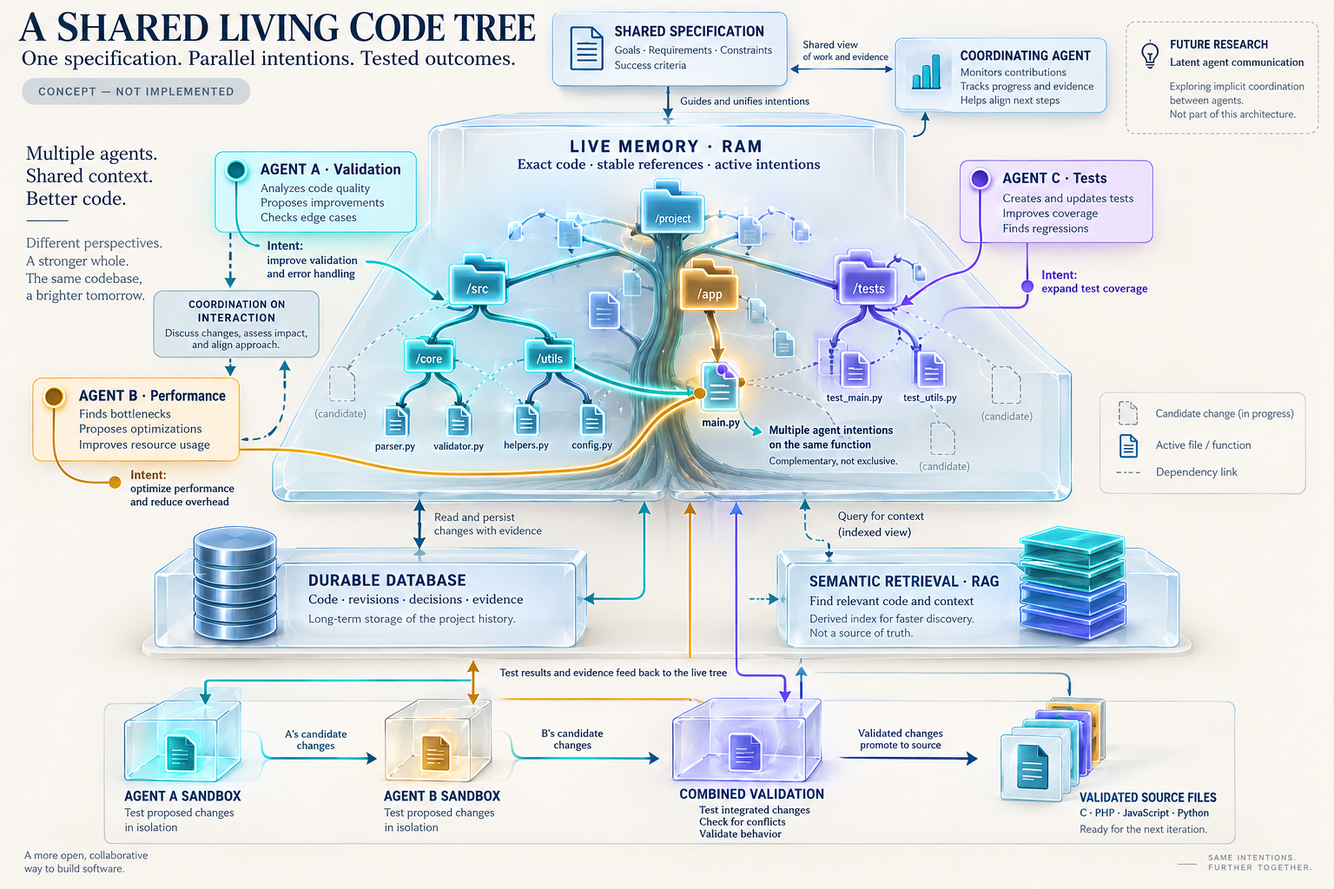
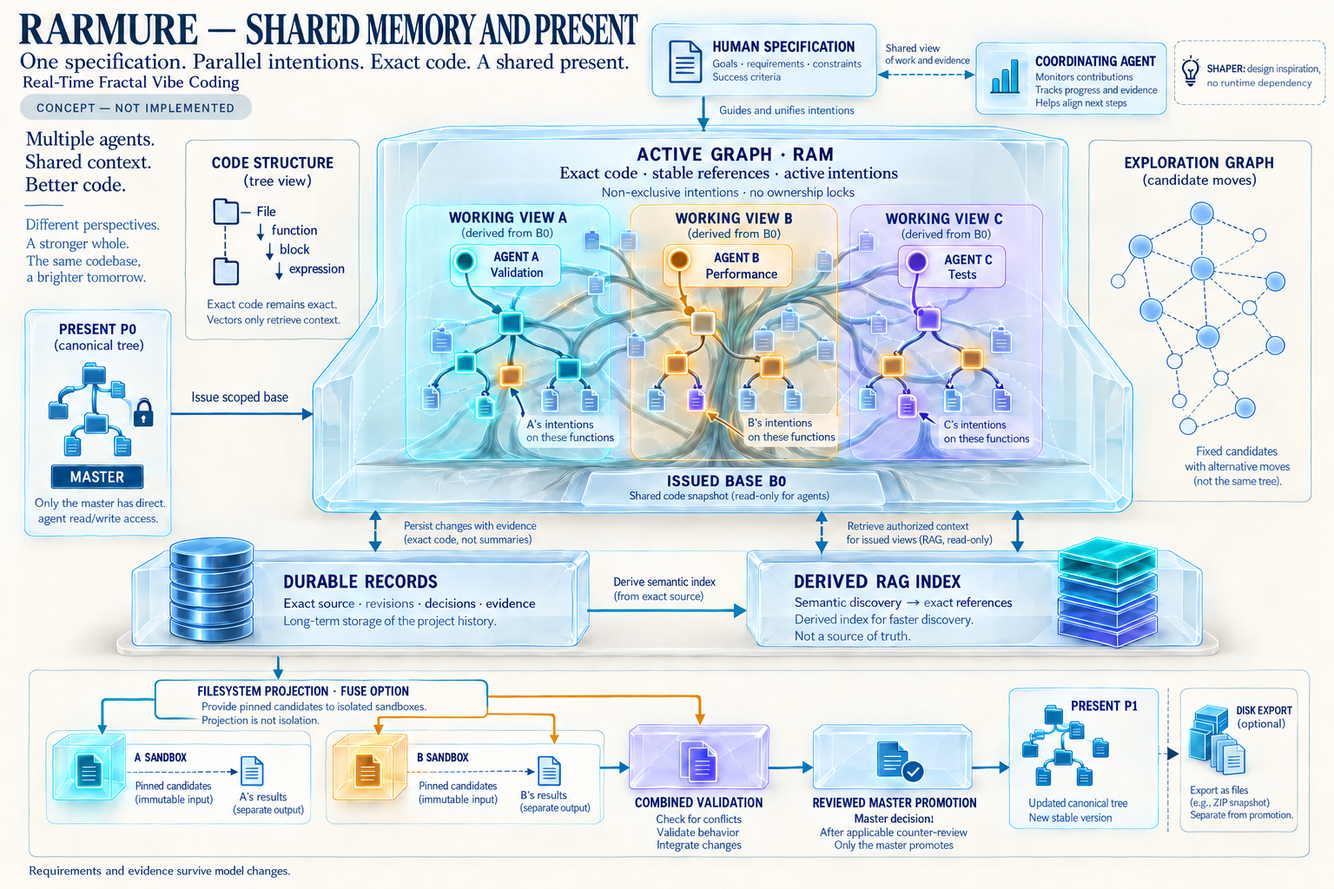
Refresh fractal vibe coding illustrations and clarify concurrency boundaries

diff --git a/visuals/GENERATION-PROMPTS.md b/visuals/GENERATION-PROMPTS.md
@@ -1,0 +1,75 @@
+# RARMURE Illustration Generation Prompts
+
+Date: 2026-10-07. Tool: built-in image generation. The original repository illustrations were edit references; each refreshed result received one targeted correction. These are design briefs, not implementation evidence. Image filenames and interpretation limits appear in [Visual notes](README.md).
+
+Each correction used its preceding generated image as the edit target. The final images are checked for readable core labels, separate working views, present authority, exact versus derived memory, parallel exploration, complementary review, and conceptual status. Prose contracts govern any simplified visual relationship.
+
+## Shared memory initial brief
+
+```text
+Use case: infographic-diagram. Asset: public RARMURE repository concept illustration 01, landscape, crisp high-resolution editorial infographic. Rebuild the attached earlier illustration completely while retaining its warm ivory background, navy type, translucent cyan architecture, organic living-tree motif, and amber/purple contribution colors. All visible text in English, large readable type, generous whitespace. Title exactly "RARMURE — SHARED MEMORY AND PRESENT". Badge "CONCEPT — NOT IMPLEMENTED".
+Show a human specification above an architecture of clearly separated surfaces. A compact navy protected canonical tree labeled "PRESENT P0" has a connection ONLY to "MASTER", with caption "Only the master has direct agent read/write access". A distinct large glass chamber "ACTIVE GRAPH · RAM" contains three separate virtual overlays labeled "WORKING VIEW A", "WORKING VIEW B", "WORKING VIEW C", all derived from "ISSUED BASE B0". Draw agents working only on their own overlays, with overlapping intention markers on matching function nodes; caption "Non-exclusive intentions · no ownership locks". Small inset tree "CODE STRUCTURE" lists "File → function → block → expression" and a separate inset "EXPLORATION GRAPH" shows fixed candidates connected by alternative moves, not the same tree. Exact code remains exact, vectors only retrieve context.
+Below RAM show "DURABLE RECORDS" with "Exact source · revisions · decisions · evidence"; show "DERIVED RAG INDEX" with "Semantic discovery → exact references". Persistence arrows link RAM and durable records, a one-way derived-index arrow goes from durable records to RAG, retrieval returns authorized context to issued views. Avoid indicating independently authoritative databases.
+Two parallel mini sandboxes receive "PINNED CANDIDATES" through "FILESYSTEM PROJECTION · FUSE OPTION". Their inputs are immutable, outputs separate; caption "Projection is not isolation". They feed "COMBINED VALIDATION" then "REVIEWED MASTER PROMOTION" then "PRESENT P1". Optional "DISK EXPORT" is separate from promotion.
+Small unobtrusive side note exactly "SHAPER: design inspiration, no runtime dependency". Footer exactly "Requirements and evidence survive model changes". Do not claim speedups, safety guarantees, universal AI language, or deployment. Preserve conceptual visual appeal but prioritize a clear correct graph, no direct worker-to-present arrow, no provider-to-accepted-output shortcut.
+```
+
+## Shared memory targeted correction
+
+```text
+Edit this RARMURE concept infographic surgically. Preserve the ivory/navy/cyan/amber/purple editorial style, all upper architecture, dimensions and readable typography, RAM views, separate code tree/exploration graph, durable/RAG responsibilities, SHAPER optionality and deferred implementation status. Correct bottom execution flow only:
+1. A SANDBOX and B SANDBOX are independent parallel tests of fixed candidates. REMOVE any arrow from A sandbox or A results to B sandbox. Their source inputs come from separate parallel arms from FILESYSTEM PROJECTION. A results and B results each have a separate clear arrow into COMBINED VALIDATION; no sandbox-to-sandbox chain.
+2. Under REVIEWED MASTER PROMOTION replace "Human review" with exactly "Master decision". Keep arrow from combined validation to this gate and from gate to PRESENT P1. Under gate use exactly "After applicable counter-review" and "Only the master promotes". Human acceptance is a separate authority when required, not the label for every promotion.
+3. Add compact small text immediately below title or its subtitle: "Real-Time Fractal Vibe Coding". Keep title RARMURE — SHARED MEMORY AND PRESENT and badge CONCEPT — NOT IMPLEMENTED.
+4. The PRESENT P0 box contains the master and access label. Its outgoing arrow to RAM should be one-way labeled "Issue scoped base", not a bidirectional direct agent link to the live present. Nothing else acquires present authority.
+No other changes. Exact English text, avoid duplicated labels, retain design clarity and no proof-of-implementation claims.
+```
+
+## Fractal exploration initial brief
+
+```text
+Use case: infographic-diagram. Asset: public RARMURE concept illustration 02, landscape editorial art. Completely redesign attached prior illustration in the same ivory/navy/translucent cyan/amber/violet organic living-tree style, readable English typography and generous whitespace.
+Title exactly "RARMURE — REAL-TIME FRACTAL VIBE CODING". Subtitle exactly "Parallel exploration · live coordination · evidence-based stabilization". Badge "CONCEPT — NOT IMPLEMENTED".
+Central panel "VIRTUAL EXPLORATION · RAM" is a growing organic exploration graph of several future moves, not code containment. "ISSUED BASE B0" forks into 3 paths with several fixed candidate checkpoints each, with smaller forks at subsystem and function scales and an explicit composition of two compatible contributions. Three workers use separate virtual overlays, even for the same logical function. Cyan amber violet paths, dashed unexplored paths and pale paused paths. A failing intermediate has a repair successor. Each candidate is fixed; edits create successors.
+Top protected small "PRESENT" tree connects ONLY with "MASTER · MICRO + MACRO"; master issues B0. Show "CODE TREE" as separate inset file/function/block containment, visibly different from possible futures. No worker direct arrow to present.
+Left circular cycle "INTENT → ALTERNATIVES → EXPERIMENT → COUNTER-REVIEW → REFINEMENT". Caption "The same pattern at several scales". Breathing organic arcs evoke expansion and contraction, no quantum claims.
+Right legends "SEARCH STATE": "unexplored · active · paused · pruned"; "ASSESSMENT": "unassessed · inconclusive · meets_criteria · fails_criteria · stale". Cards C1 meets stated criteria; C2 fails stated criteria; C3 unassessed; C4 repair candidate. Assessments qualify checkpoint not whole path.
+Bottom two retained options "PERFORMANCE PROFILE" and "SECURITY PROFILE", both "Shared mandatory requirements". Selected checkpoint passes "COMBINED VALIDATION + SELECTION REVIEW", then "MASTER PROMOTION" to present while other exploration continues.
+Footer "Bounded workers · search depth · cost · test time". Tiny caveat "Real-time means live coordination; no latency guarantee demonstrated". All objects English, legible not overcrowded. Do not assert implemented software, universal language, speedup, automatic correctness, or Git branch based workflow. Match visual family, but rebuild content to these explicit contracts.
+```
+
+## Fractal exploration targeted correction
+
+```text
+Edit attached RARMURE infographic with precise corrections only. Preserve title "RARMURE — REAL-TIME FRACTAL VIBE CODING", subtitle, navy/ivory/cyan/amber/violet organic tree style, all graph details, badge, roles, exact candidate invariants, and footer. Correct these explanatory labels and connections:
+SEARCH STATE "active" explanatory line must be "work in progress", not "running or under test". "unexplored" explanation must be "not yet explored". ASSESSMENT "stale" explanation must be "conditions changed", not "outdated by new results". Keep exact technical enum names.
+PERFORMANCE PROFILE and SECURITY PROFILE bottom cards are independent alternative selection profiles, not sequential pipeline stages. Remove arrow from PERFORMANCE PROFILE to SECURITY PROFILE. Each card separately feeds COMBINED VALIDATION + SELECTION REVIEW. Replace text in that validation card "Selected checkpoint passes both profiles and review." with "Required criteria and applicable profile".
+The code-tree PRESENT at top must retain connection ONLY to master; no worker direct access. Show promotion arrow leading to present from master if existing arrow currently points away.
+Do not change anything else, keep English lettering sharp and exact.
+```
+
+## Parallel agents initial brief
+
+```text
+Use case: infographic-diagram. Asset: public RARMURE README hero illustration 03, landscape polished editorial infographic. Fully redesign attached old diagram while retaining warm ivory backdrop, dark navy typography, glass cyan panels, amber/violet agent accents and organic tree motif. Large readable English text, organized visual hierarchy, generous whitespace.
+Title exactly "RARMURE — REAL-TIME FRACTAL VIBE CODING". Subtitle exactly "Parallel agents · multiple providers · complementary counter-views". Badge "CONCEPT — NOT IMPLEMENTED".
+Top "HUMAN SPECIFICATION" defines mandatory requirements and preferences. "MASTER · MICRO + MACRO" examines behavior and project coherence. Protected compact "CANONICAL PRESENT" tree connects ONLY with master, caption "Direct agent access: master only".
+Middle 3 equal parallel worker cards "WORKER A", "WORKER B", "WORKER C" each uses own "VIRTUAL WORKING VIEW · RAM", issued from same fixed base. Beneath 3 fixed candidates C1 C2 C3 and focused discussion on overlapping semantic intentions caption "Non-exclusive intentions · coordinate interactions". A miniature branching exploration DAG shows successive moves not a single shared disk tree.
+Provider panel "AUTHORIZED PROVIDER ROUTES" with "Provider A", "Provider B", "Local model", through "COMMON EXPLICIT PROTOCOL" to "ASYNC SCHEDULER". Scheduler supplies bounded tasks/scoped context, not authority. Routes may serve several workers reviewers master. Caption "Diversity does not guarantee independent errors". No supplier arrow directly to present or accepted output.
+Separate review panel on same fixed candidate with four complementary cards "BEHAVIOR", "SECURITY", "PERFORMANCE", "SYSTEM INTEGRATION". Independent initial findings converge to evidence and objections exchange. Caption "Separate initial assessments → compare evidence". Tiny "Missing required review stays missing". Pinned mini sandboxes test exact candidates, inputs fixed and outputs separate.
+Master compares profiles "PERFORMANCE", "SECURITY", "RELIABILITY" with "Shared mandatory criteria". Route passes dedicated "COUNTER-REVIEW OF MASTER SELECTION" and "COMBINED VALIDATION" before "MASTER-AUTHORIZED PROMOTION" to present. Compact supporting base beneath active graph: "DURABLE EXACT RECORDS" and "DERIVED RAG INDEX", exact source distinct from vectors.
+Footer "Agreement is not proof · bounded review rounds · retained alternatives". Small side note "SHAPER: design inspiration, no runtime dependency". Tiny dashed note "Logical AI language and latent communication: deferred research". Real-time means live intention/interaction coordination, no hard timing guarantee. No measured gains, no implemented plugin claim, no automatic promotion after tests, no universal translator. Ensure every arrow respects issued view authority. Favor architectural clarity over too many decorative nodes.
+```
+
+## Parallel agents targeted correction
+
+```text
+Surgically correct this RARMURE overview infographic. Keep entire design, title, colors, layout, all relevant concepts, and English typography. Make exactly these factual corrections:
+In CANONICAL PRESENT card replace "(read-only for others)" with "(no direct worker or reviewer access)". Retain master-only bidirectional direct access. Workers receive issued views, never direct present reads.
+In EXPLORATION PRINCIPLE left paragraph change "Diversity of exploration improves problem coverage, but does not guarantee independent errors." to exactly "Diversity may broaden coverage; independent errors are not guaranteed." This is a hypothesis, not a measured improvement.
+In ASYNC SCHEDULER fix typo to "Serves workers, reviewers and master".
+In left small sandbox inset replace "EACH REVIEW IN A PINNED SANDBOX" with "EXPERIMENTS IN PINNED SANDBOXES". Reviewers can review evidence without all being sandbox-executed; keep other bullet points about exact candidate, fixed inputs, separate outputs.
+Replace bidirectional arrow between DURABLE EXACT RECORDS and DERIVED RAG INDEX with one-way arrow from durable records to derived index, labeled "Derived indexing". Index never writes exact authoritative source.
+Preserve required review coverage, review of master, combined validation before master-authorized promotion, optional SHAPER and deferred research notes, badge CONCEPT — NOT IMPLEMENTED. No other changes.
+```
+

diff --git a/visuals/README.md b/visuals/README.md
@@ -1,31 +1,35 @@
 # Concept Illustrations
 
-The following images were generated with the built-in image generation tool during concept development on 2026-10-07. They are illustrative assets, not software screenshots or runtime evidence. All three are retained to preserve the progression of the visual explanation.
+The following images were refreshed with the built-in image generation tool on 2026-10-07 to reflect the current concept: **RARMURE — Real-Time Fractal Vibe Coding**. They are illustrative assets, not software screenshots or runtime evidence. The initial illustrations remain in Git history; these paths now identify the current versions.
 
 | Image | Subject |
 | --- | --- |
-| [01 — Shared living code tree](01-shared-living-code-tree.png) | Shared specification, RAM graph, agent intentions, persistent memory, retrieval, and test materializations |
-| [02 — Fractal parallel exploration](02-fractal-parallel-exploration.png) | Recurring experimentation at several scales and multiple mature paths |
-| [03 — Counter-review and providers](03-counter-review-and-providers.png) | Local reviewers, master micro/macro selection, and provider configurations |
+| [01 — Shared memory and present](01-shared-living-code-tree.png) | Master-only present access, issued bases, separate RAM working views, exact durable records, derived retrieval, and pinned parallel test projections |
+| [02 — Fractal parallel exploration](02-fractal-parallel-exploration.png) | Successive moves at several scales, repair successors, composition, separate search and assessment labels, and retained selection profiles |
+| [03 — Parallel agents and multiple counter-views](03-counter-review-and-providers.png) | Per-role provider routes, asynchronous work, complementary candidate reviews, master-selection review, and combined validation before promotion |
 
 ## Interpretation limits
 
 The prose in [Architecture](../ARCHITECTURE.md), [Cooperation](../AGENT-COOPERATION.md), and [Validation](../REQUIREMENTS-AND-VALIDATION.md) defines the intended system.
 
-- Image 01 visually places agent sandboxes in a sequence. The intended architecture permits independent parallel sandboxes followed by combined validation.
-- Image 03 places validated output cards near the provider protocol. A provider response does not directly become validated output: selection, counter-review, and combined validation remain required.
+- Diagrams simplify event delivery and assessment cycles. Reviews and experiments may repeat or overlap; visual adjacency does not impose a global scheduling barrier.
+- Provider routing supplies authorized execution and context. A provider response does not directly become accepted code; applicable counter-review, validation, and master promotion remain required.
 - Colors indicate illustrative contributions, not exclusive ownership of branches or fixed provider assignments.
-- These images predate the explicit present boundary: only the master has direct agent read/write access to the present. Workers explore virtual candidates in RAM; a mounted candidate is a pinned test projection. The exploration graph represents sequences of moves separately from code containment.
-- “Validated” cards depict possible future states, not tests that were run.
+- Only the master has direct agent read/write access to the present. Workers develop separate mutable working views in RAM. Fixed candidates and their test projections do not change while assessed; further edits create successors.
+- The exploration graph represents successive transformations separately from code containment. A successful checkpoint does not validate all descendants or a composition.
+- Assessment cards depict hypothetical evidence states, not tests that were run. A retained performance or security profile must meet shared mandatory criteria; profiles are alternatives rather than mandatory sequential stages.
 - Language extensions, file paths, and role descriptions are examples rather than product commitments.
 - Latent communication remains separate deferred research.
+- Real-time means intended live coordination as work evolves, not a demonstrated deadline or latency guarantee. Fractal means a recurring cooperation pattern, not an exact fractal dimension.
+- Non-exclusive intentions mean concurrent exploration without ownership locks. They do not demonstrate a mutex-free, lock-free, or wait-free runtime; internal synchronization remains an implementation choice. Assessment labels alone never authorize promotion.
+- SHAPER supplies design inspiration. No SHAPER installation, service connection, or deployment is required for RARMURE to function independently.
 
 ## Prompt design record
 
-The following are concise English summaries of the generation briefs, not verbatim copies of the full prompts.
+The following are concise English summaries of the generation briefs. [Generation prompts](GENERATION-PROMPTS.md) preserves the complete briefs and targeted corrections, without private source paths.
 
-1. **Shared tree:** a spacious editorial concept illustration with a translucent RAM graph, stable code references, overlapping agent intentions, durable database, semantic retrieval, isolated test views, a common specification, and deferred latent research.
-2. **Fractal exploration:** evolve the shared-tree visual into recursive parallel branches with local feedback loops, retained failed experiments, sandbox evidence, and several fixed validated outputs while exploration continues.
-3. **Counter-review:** add a reviewing role to every working cycle and to master decisions; show micro/macro evaluation and single-provider or multi-provider operation through a common explicit protocol.
+1. **Shared memory:** preserve the editorial visual family while separating present authority, issued views, exact durability, derived retrieval, code containment, and exploration. Show parallel sandboxes and a reviewed master promotion.
+2. **Fractal exploration:** show recursive lookahead, a repaired failed intermediate, explicit composition, independent status dimensions, bounded work, and alternative profiles under the new descriptive title.
+3. **Counter-views:** show parallel workers, authorized provider routes, a complementary review panel on fixed candidates, evidence exchange, review of master choices, and combined validation. Distinguish optional SHAPER inspiration and deferred latent research.
 
 The selected overview image is 03. No visual implies a working implementation or a demonstrated performance benefit.

diff --git a/SCOPE-AND-COVERAGE.md b/SCOPE-AND-COVERAGE.md
@@ -29,7 +29,7 @@ Date: 2026-10-07. Delivery type: concept documentation and retained illustration
 | C19 | Latent communication and internal model modification | [Research](RESEARCH-AND-ROADMAP.md) | Deferred |
 | C20 | SHAPER responsibility mapping and contextual continuity | [Vision](VISION.md), [Continuity](CONTEXT-AND-CONTINUITY.md) | Conceptual mapping only |
 | C21 | French conversation and English project artifacts | [Agent instructions](AGENTS.md) | Recorded rule |
-| C22 | Concept illustrations | [Visuals](visuals/README.md) | Retained; non-normative |
+| C22 | Concept illustrations | [Visuals](visuals/README.md) | Refreshed for the current concept; non-normative |
 | C23 | Distinct containment, dependency, authority, and exploration relationships | [Architecture](ARCHITECTURE.md), [Foundations](SHAPER-FOUNDATIONS.md) | Documented |
 | C24 | Prepared context and required context horizons by role | [Continuity](CONTEXT-AND-CONTINUITY.md), [Cooperation](AGENT-COOPERATION.md) | Documented |
 | C25 | Conditional lessons and separation of observations from interpretations | [Continuity](CONTEXT-AND-CONTINUITY.md), [Foundations](SHAPER-FOUNDATIONS.md) | Documented |
@@ -80,6 +80,8 @@ The present clarification extends coverage to C33–C36 and revises C03, C05–C
 The vocabulary review establishes [canonical terms](GLOSSARY.md) and updates technical prose and diagrams: code tree versus exploration graph, mutable working view versus fixed candidate, view issuance versus promotion, and empirical evidence versus formal proof. Assessment labels now state whether criteria were assessed and met; search status remains separate. C37–C40 cover these definitions, intent-first development, future-model reassessment, and the proposed harness integration. Retained images remain illustrative and may use earlier shorthand.
 
 ## Source coverage and delivery limits
+
+The current visual refresh replaces the three illustration files, displays all three in the project README, and records their generation briefs and interpretation limits. The working title is **Real-Time Fractal Vibe Coding**: live coordination is a design intention, not a measured timing guarantee. This refresh concerns C02–C03, C09–C16, C20–C22, C33–C37, and C41; it introduces no runtime or benchmark evidence.
 
 The parallel coordination extension covers C41: separate concurrent working views, bounded asynchronous work items, authorized provider routes, complementary candidate and master-selection reviews, and explicit handling of missing reviews and stale evidence. These are design contracts. Documentation verification does not establish concurrent execution, provider compatibility, or a speed gain.
 

diff --git a/PROJECT-EXPLANATION.md b/PROJECT-EXPLANATION.md
@@ -2,6 +2,8 @@
 
 Date: 2026-10-07. Status: concept and design intentions; no application implementation.
 
+Working description: **RARMURE — Real-Time Fractal Vibe Coding**. We are drawing the plans for an environment where human intent guides parallel agent exploration and a recurring construction, review, and experiment cycle at several scales. Live coordination connects intentions and interactions as they evolve; it is not a demonstrated real-time deadline guarantee. The name describes the intended experience, while the explicit contracts below define how it could be made dependable.
+
 RARMURE proposes a shared environment for parallel agents to explore software constructions, challenge them, test identified candidates, and select coherent results against a human specification. Its defining idea is to connect exact code with intent, relationships, alternatives, and evidence throughout that process.
 
 This reference preserves the current reasoning in two forms: a short explanation and a detailed account with an idea coverage map. It synthesizes the project concept rather than reproducing private conversations. Specialized documents remain the canonical contracts for their respective subjects; [RARMURE Vocabulary](GLOSSARY.md) governs terminology. Future changes must update both the relevant contract and this explanation when its meaning changes.
@@ -134,6 +136,8 @@ Two agents may investigate the same function simultaneously through separate wor
 Each proposal records its base, target identities, assumptions, dependencies, and expected effects. Relevant source or dependency changes require reassessment or an explicit successor against the newer base. Advancing the present never silently rebases existing views or switches running test inputs. Avoiding ownership locks still permits short atomic recording and promotion operations.
 
 ### Presence and intention registration
+
+The intended collaboration is **concurrent exploration without ownership locks**. This does not establish a mutex-free, lock-free, or wait-free runtime. Agents do not reserve code elements, while internal data structures, durable revision recording, and promotion may require mutexes, transactions, or another synchronization mechanism. Those implementation choices remain open.
 
 Presence tags indicate temporary activity on objects, files, or directories. They are non-exclusive and grant neither ownership nor permissions. Expiring presence does not erase durable intentions or contribution history.
 

diff --git a/README.md b/README.md
@@ -1,10 +1,12 @@
 # RARMURE
 
-**Fractal Multi-Agent Code Synthesis**
+**Real-Time Fractal Vibe Coding**
 
 *From shared intent to tested software.*
 
 Status: **concept formalization only**. Created: **2026-10-07**.
+
+We are designing a fractal vibe coding environment: humans direct the purpose, while parallel agents explore, challenge, and test possible constructions through a recurring cycle at several scales. **Real-time** names the intended live coordination of intentions and interactions as work evolves; it does not claim a demonstrated latency bound or a working runtime. RARMURE remains the project name.
 
 RARMURE is a proposed environment in which agents explore, challenge, and mature software solutions inside a shared representation of a project. Exploration paths can fork recursively. Agents register their intentions, experiment in small sandboxes, and submit their proposals to counter-review. A master agent considers both local behavior and global coherence to select compatible options against human-defined requirements.
 
@@ -51,6 +53,16 @@ This cycle can recur at project, subsystem, function, and behavior levels. Explo
 ![Fractal collaboration with counter-review](visuals/03-counter-review-and-providers.png)
 
 *Concept illustration, not an implemented interface or proof of execution. The documents define the intended validation flow; see the visual notes for diagram limitations.*
+
+### Memory and present authority
+
+![Shared memory and present authority](visuals/01-shared-living-code-tree.png)
+
+### Fractal exploration and live coordination
+
+![Fractal exploration and live coordination](visuals/02-fractal-parallel-exploration.png)
+
+The three illustrations explain complementary views of the same concept. [Visual notes and generation prompts](visuals/README.md) identify their meaning and limits.
 
 ## Foundational commitments
 

diff --git a/GLOSSARY.md b/GLOSSARY.md
@@ -97,6 +97,12 @@ Search state and assessment are independent. The canonical search labels are `un
 
 **Semantic pointer** is an explanatory alias for **semantic reference**, never a C address or an embedding. **Fractal parallelism** describes a cooperation pattern recurring at several scales. **Mathematical breathing**, **living tree**, and **functional beauty** remain design metaphors, not claims of mathematical convergence or measured correctness.
 
+## Descriptive terms
+
+**Concurrent exploration without ownership locks** means agents do not reserve code elements against others' exploration. It does not imply a **mutex-free**, **lock-free**, or **wait-free** implementation. Internal synchronization and coherent revision transitions remain separate design questions; master authority alone establishes no progress guarantee.
+
+**Real-Time Fractal Vibe Coding** is RARMURE's working descriptive title. **Vibe coding** here means human intent guiding agent-assisted software construction, with explicit requirements, counter-review, and validation. **Fractal** names recurrence of that cycle across scales. **Real-time** names intended live coordination during work, not a measured latency guarantee or a completed runtime. Exploration forks and paths remain the precise terms for alternative futures; the title does not replace them.
+
 ## Worked vocabulary example
 
 The master issues base snapshot `B0` derived from present revision `P0`. Worker A develops working view `W1` and submits proposal `Q1`. Capturing its changes produces candidate `C1`; the corresponding move connects `B0` to `C1`. A later move produces `C2`, forming an exploration path with two moves. Neither candidate is the present.

diff --git a/ARCHITECTURE.md b/ARCHITECTURE.md
@@ -171,6 +171,8 @@ Each proposal names its base revision and assumptions. Concurrent edits remain d
 
 Avoiding ownership locks does not eliminate coordination. Short atomic state transitions may still be needed to record a coherent accepted state. Syntax-level merge success cannot establish behavioral compatibility, and disjoint files can still conflict through shared assumptions.
 
+The precise claim is **concurrent exploration without ownership locks**. It is not a claim that the runtime is mutex-free, lock-free, or wait-free. Separate working views avoid long-lived exclusive reservations of code elements by agents. Internal structures, durable transactions, and coherent promotion still need a concrete synchronization protocol, which may use mutexes or other mechanisms. Exclusive master authority is an access rule, not a demonstrated concurrency progress guarantee.
+
 ## Durability and event delivery
 
 The proposed persistence strategy is a durable change journal plus periodic state snapshots. Exact choices of transaction store, journal layout, and recovery machinery remain open.
